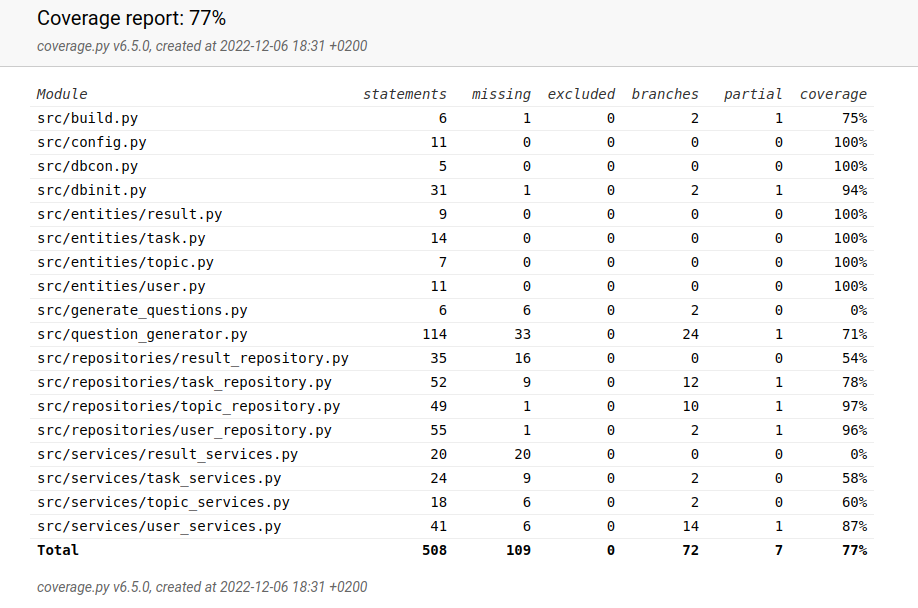
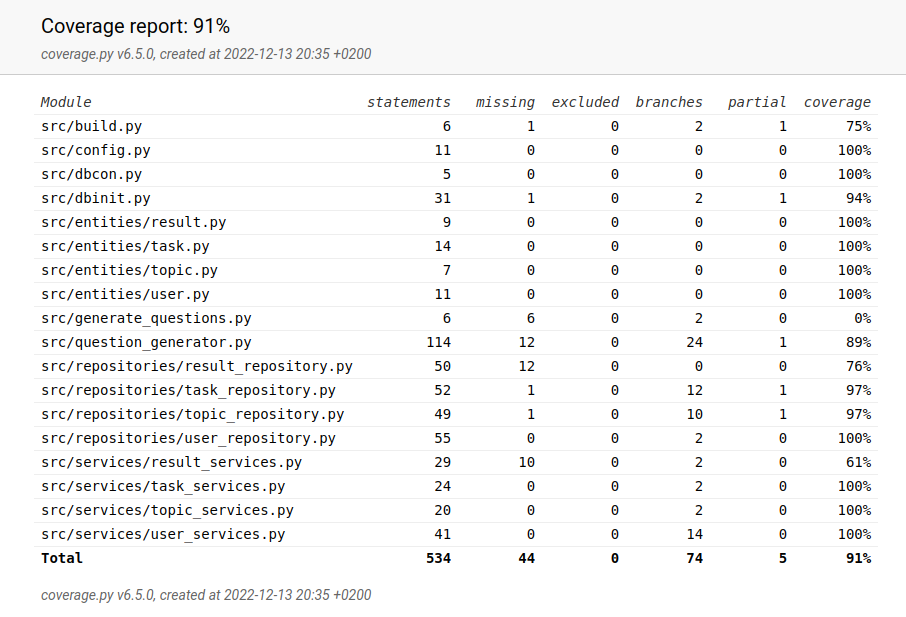
documentation update

diff --git a/schooltasks/dokumentaatio/arkkitehtuuri.md b/schooltasks/dokumentaatio/arkkitehtuuri.md
@@ -2,15 +2,132 @@
 
 ## Rakenne
 
+Koodin pakkausrakenne alla:
+
 ![PackageDiagram](https://github.com/miahro/ot-harjoitustyo/blob/master/schooltasks/dokumentaatio/kuvat/PackageDiagram.jpg)
 
-
+Pakkausten sisältö on seuraava:
+- ui sisältää käyttöliittymästä vastaavan koodin
+- services sisältää sovelluslogiikasta vastaavat luokat
+- repositories sisältää luokat, jotka vastaavat tietojen pysyväistallennuksesta sekä tietokantakyselyistä
+- entities sisältää sovelluksen käyttämät tieto-luokat
 
 ## Käyttöliittymä
 
+Käyttöliittymä sisältää näkymät:
+- aloitusnäkymä, jossa valitaan joko uuden käyttäjän luominen tai sisäänkirjautuminen
+- uusi käyttäjä näkymä, jossa luodaan uusi käyttäjä
+- kirjautumisnäkymä, jossa käyttäjä kirjautuu sisään
+- valintanäkymä, jossa valitaan joko tulosten tarkastelu tai aihe sekä vaikeustaso ja jatketaan tehtävänäkymään
+- tehtävänäkymässä tehdään tehtäviä
+- tulosnäkymässä käyttäjä näkee yhteenvedon tuloksistaan
+
+Jokainen näkymä on toteutettu oman luokkanaan. Käyttöliittymä on eriytetty muuten täysin sovelluslokiigasta, paitsi poikkeuksena tulosnäkymä pitää kirjaa kierroksen tehtävistä (tämä ei ole pysyväistalletettava tieto vaan vain tehtäväkierroksen väliaikainen tieto)
+
+![UI](https://github.com/miahro/ot-harjoitustyo/blob/master/schooltasks/dokumentaatio/kuvat/UIdraft.jpg)
+
 ## Sovelluslogiikka
 
+Sovelluksen tietomallin muodostavat luokat:
+- User, joka kuvaa käyttäjän ominaisuuksia
+- Topic, joka kuvaa tehtävän aiheen ominaisuuksia
+- Task, joka kuvaa tehtävän ominaisuuksia
+- Result, joka kuvaa tuloksen ominaisuuksia
+
+Näistä tarkemmin alla, kohdassa "Tietokantamalli"
+
+Toiminnallisista kokonaisuuksista vastaavat services-luokat:
+- UserServices
+- TopicServices
+- TaskServices
+- ResultServices
+
+Services luokat pääsevät käsiksi tietokannan tietoihin repositories luokkien kautta. Repostitories luokkia on yksi kullekin tietoluokalla:
+- UserRepository
+- TopicRepository
+- TaskRepository
+- ResultRepository
+
+Luokkien suhteet kuvattu alla:
+
+```mermaid
+ classDiagram
+      class UI {
+
+      }
+      class User{
+          firstname
+          lastname
+          username
+          password
+          teacher
+      }
+    class Result{
+          person
+          task
+          result
+      }
+      class Task{
+          topic_id
+          difficulty
+          question
+          correct
+          wrong1
+          wrong2
+          wrong3
+      }
+      class Topic{
+          topic
+      }
+
+    class UserRepository{
+          db connection
+    }
+    class ResultRepository{
+          db connection
+    }
+    class TopicRepository{
+          db connection
+    }
+    class TaskRepository{
+          db connection
+    }
+
+    class UserServices{
+          logged_in_user
+          user
+    }
+    class ResultServices{
+    }
+    class TopicServices{
+          active_topic
+    }
+    class TaskServices{
+          active_difficulty
+    }
+
+    UI ..> UserServices
+    UI ..> TopicServices
+    UI ..> TaskServices
+    UI ..> ResultServices
+    User <.. UserRepository
+    Task <.. TaskRepository
+    Topic <.. TopicRepository
+    Result <.. ResultRepository
+    UserServices -- User
+    UserServices ..> UserRepository
+    TopicServices ..> TopicRepository
+    TopicServices -- Topic
+    TaskServices -- Task
+    TaskServices ..> TaskRepository
+    ResultServices -- Result
+    ResultServices ..> ResultRepository
+```
+
+
 ## Tietojen pysyväistallennus
+
+### Tietokantamalli
 Tiedot tallennetaan sqlite3 tietokantaan. 
 
 Luokkien:
@@ -55,12 +172,12 @@ data tallennetaan kaikki SQL tietokantaan. Tietokannan taulut ja kentät kuvattu
     Tasks <-- Topics
     Results <-- User
 ```
-
+### Tiedostot
 
 ## Päätoiminnallisuudet
 
 ### Käyttäjän kirjautuminen
-
+- lisätään
 
 ### Uuden käyttäjän luominen
 Uuden käyttäjän luontinäkymässä käyttäjä syöttää tiedot kenttiin:
@@ -102,6 +219,7 @@ sequenceDiagram
 Käyttäjän täytettyä tiedot ja klikattua "Luo uusi käyttäjä", ui.new_user_view kutsuu UserServices create_new_user metodia. Metodia tarkastaa ensin, ettei syötteessä ole tyhjiä kenttiä, ja sitten että salasanat ovat samoja. Jomman kumman tarkistuksen epäonnistuminen palauttausi ui.new_user_view:n virheviestin. Tämän jälkeen UserServices luo User-olion. Seuraavaksi UserServices kutsuu UserRepositoryn user_details_by_user_id metodia sen tarkistamiseksi, ettei käyttäjätunnusta ole jo olemassa. Jos on, palautetaan virheviesti ui.new_user_view:lle. Mikäli käyttätätunnusta ei ole olemassa, UserServices kutsuu UserRepositoryn metodia add_user, ja palauttaa "käyttäjätunnus luotu"-viestin ui.new_user_view-näkymälle. ui.new_user_view näyttää viestin käyttäjälle. 
 
 ### Tehtävien tekeminen
+- lisätään
 
 ### Tulosten tarkastelu 
-
+- lisätään

diff --git a/schooltasks/dokumentaatio/tuntikirjanpito.md b/schooltasks/dokumentaatio/tuntikirjanpito.md
@@ -16,6 +16,9 @@
 |5 |3.12.| 4    | Käyttöliittymän laajantaminen, task_services luokan laajentaminen, uusi topic_services luokka|
 |5 |5.12.| 10   |ResultServices luokan toteuttaminen, repositories ja services luokkien laajentamista, käyttöliittymän laajentamista, yksikkötestien laajentamista|
 |5 |6.12.| 10    |Käyttöliittymään alustava tulosten tarkastelu, docstringien lisäystä/parantamista, koodin siistimistä, manuaalista testausta, virheiden korjausta, dokumentointia|
+|6 |11.12.| 3    |Testikattavuuden parantamista, virheiden korjausta|
+|6 |12.12.| 8    |Yritetty toteuttaa tulosten graafinen esitys matplotlib ulkoisella kirjastolla, tämä jäi viellä kesken. Docstringien lisäystä, testien lisäystä, services ja repositories luokkien laajennusta, käyttöliittymän parantelua|
+|6 |13.12.| 8    | Käyttöohjeen laatiminen, arkkitehtuurikuvauksen laajentaminen, koodin siistimistä, testausta, muun dokumentaation päivitys|
 
 
 
@@ -26,7 +29,7 @@
 | 3   | 26  | 
 | 4   | 24   | 
 | 5   | 24   | 
-| 6   | x   | 
-| yht | 80 |
+| 6   | 19   | 
+| yht | 99 |
 
 

diff --git a/schooltasks/dokumentaatio/changelog.md b/schooltasks/dokumentaatio/changelog.md
@@ -55,3 +55,13 @@ Tällä hetkellä toteutettu toiminnallisuus:
 
 Vielä toteuttamatta:
 - järkevä ja yksityiskohtaisempi tulosten tarkastelu
+
+## Viikko 6:
+Laajennettu ja korjattu olemassaolevia services ja repositories luokkia. Laajennettu/parannettu käyttöliittymää. 
+- korjattu virheitä SQL-kyselyissä
+- korjattu virheitä käyttöliittymässä
+- toteutettun laajempi tulosten näyttä (muutoksia sekä ui.ResultView että ResultServices ja ResultRepository luokassa
+- yritetty toteuttaa tulosten graafinen esitys, mutta tämä jäi kesken ja poistettiin git repositoriosta
+
+Vielä toteuttamaton toiminnallisuus:
+-tulosten graafinen esittäminen käyttäen ulkoista (matplotlib) kirjastoa

diff --git a/schooltasks/dokumentaatio/vaatimusmaarittely.md b/schooltasks/dokumentaatio/vaatimusmaarittely.md
@@ -37,7 +37,7 @@ Oppilaat tekevät tehtäviä. Alustavasti oppilas valitsee aiheen ja vaikeustaso
     - aihe "tehty"
     - oikeat / väärät vastaukset "tehty"
     - vaikeustaso "tehty"
-- oppilas voi tarkistaa omat tuloksensa "osittain tehty"
+- oppilas voi tarkistaa omat tuloksensa "tehty"
 - opettaja voi tarkista kaikkien oppilaiden tulokset
 
 ## Mahdollinen jatkokehitys
